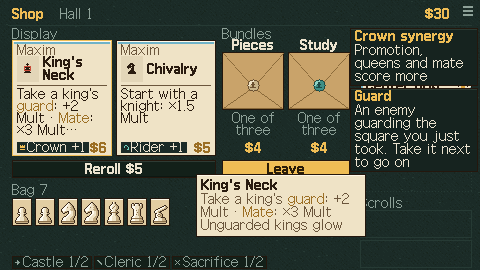
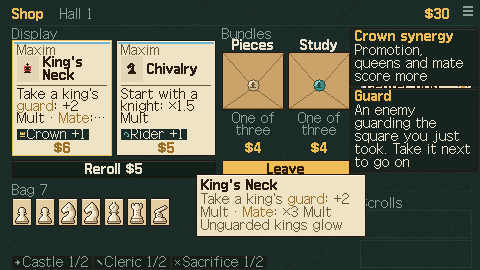
두루마리 · 영어 상점 스크린샷을 더 찍고 3회차 검수를 적었다 — 칩과 값이 겹치던 영어 카드와 두루마리 앞머리를 1배로 확인하려고

Changed region(s): [[0.0312, 0.4741, 0.2188, 0.5926], [0.25, 0.4741, 0.4375, 0.5926]]

diff --git a/docs/design-notes/voice-review.md b/docs/design-notes/voice-review.md
@@ -47,9 +47,20 @@
 | 명인 · 모래시계 | 「수 2 · 버리기 1로 둔다」 — 「로 둔다」가 군말 | ② | 「수 2 · 버리기 1뿐」 |
 | 영어 상점 | 칩 「Crown +1」과 값 「$6」이 붙었다 | ① | 사이를 8px로 |
 
+## 3회차에서 걸려 고친 것
+| 장면 | 걸린 것 | 한 일 |
+|---|---|---|
+| 영어 상점 | 「Sacrifice +1」 칩(88px)이 값 옆 자리(65px)를 넘어 「$4」 밑으로 파고든다 | 칩 하나라도 값 옆에 안 들어가면 값 줄을 나누지 않고 그 위 줄에 놓는다 |
+| 두루마리 칸 | 효과 앞머리가 빙결은 「못 지킨다」, 초월은 기물 사다리만 남았다 | 빙결 「이번 수 동안 값이 가장 큰 적 셋이 못 지킨다」, 초월 「먹으면 한 단계 위 모습이 된다 · 폰 › …」 |
+| 영어 표 | 새 줄은 「+40 Value」인데 남은 줄은 「Mult +4 per rook taken」 · 「: mult ×1.5」 | 모두 「조건: +N Mult」 꼴로 맞췄다 |
+| 낱말 풀이 | 대국 「목표 점수를 넘겨야」 · 시너지 「같은 문양을」 — 다른 곳은 「닿으면」 · 「시너지」 | 「닿아야」 · 「같은 시너지를」 |
+
 ## 3회차(마지막 판)에서 남은 것 — 고치지 못한 것
 - **대국 시너지 띠는 둘까지.** 오른쪽 칸 폭 112px에 「기사 5/6」(51px) 둘이 한계라 셋째 시너지부터는 대국 화면에 안 보인다(상점 띠에는 다 보인다). 격언 칸 높이를 줄이면 격언 둘째 줄(효과 앞머리)이 사라져 그대로 뒀다.
 - **상자가 다른 카드를 덮는 곳이 남았다.** 정석 고르기에서 오른쪽 카드를 가리키면 카드 아래 빈자리(60px)에 상자 둘(약 90px)이 안 들어가 옆 카드 귀퉁이를 덮는다(덮는 넓이가 가장 적은 자리). 대국 시너지 칩의 상자는 판넬(목표 · 점수)을 덮는다 — 판넬에는 누르는 곳이 없어 빈 곳으로 센다.
 - **낱말 풀이 · 시너지 탭의 끝말.** 「커진다」가 여러 줄에 남았다. 여덟 시너지가 「무엇을 할 때 점수가 붙는지」를 나란히 말하는 목록이라 끝을 억지로 바꾸면 오히려 읽기 어렵다.
 - **영어 칩이 넓다.** 「Sacrifice +1」(75px)은 카드 한 줄에 하나뿐이라 두 시너지 카드는 칩이 두 줄이 된다.
 - 적 특성 「거울」과 명인 「거울」이 같은 이름인 것은 이번 일 밖(예전부터).
+- 처음 안내(`coach.js` HINTS)의 「— 」 한 줄은 이번 일 밖이라 두 줄(정석 · 시너지)만 새 낱말로 고쳤다.
+- 영어 두루마리 칸의 이름(「Freeze」 · 「Transcend」)이 칸을 넘는다 — 예전부터(`after2-12-shop-scrolls-en`).
+- 스크린샷 대본은 after3처럼 저장소 밖(세션 scratchpad의 `shots4.mjs`)에 있다. Playwright를 저장소 의존성으로 두지 않으려고.
